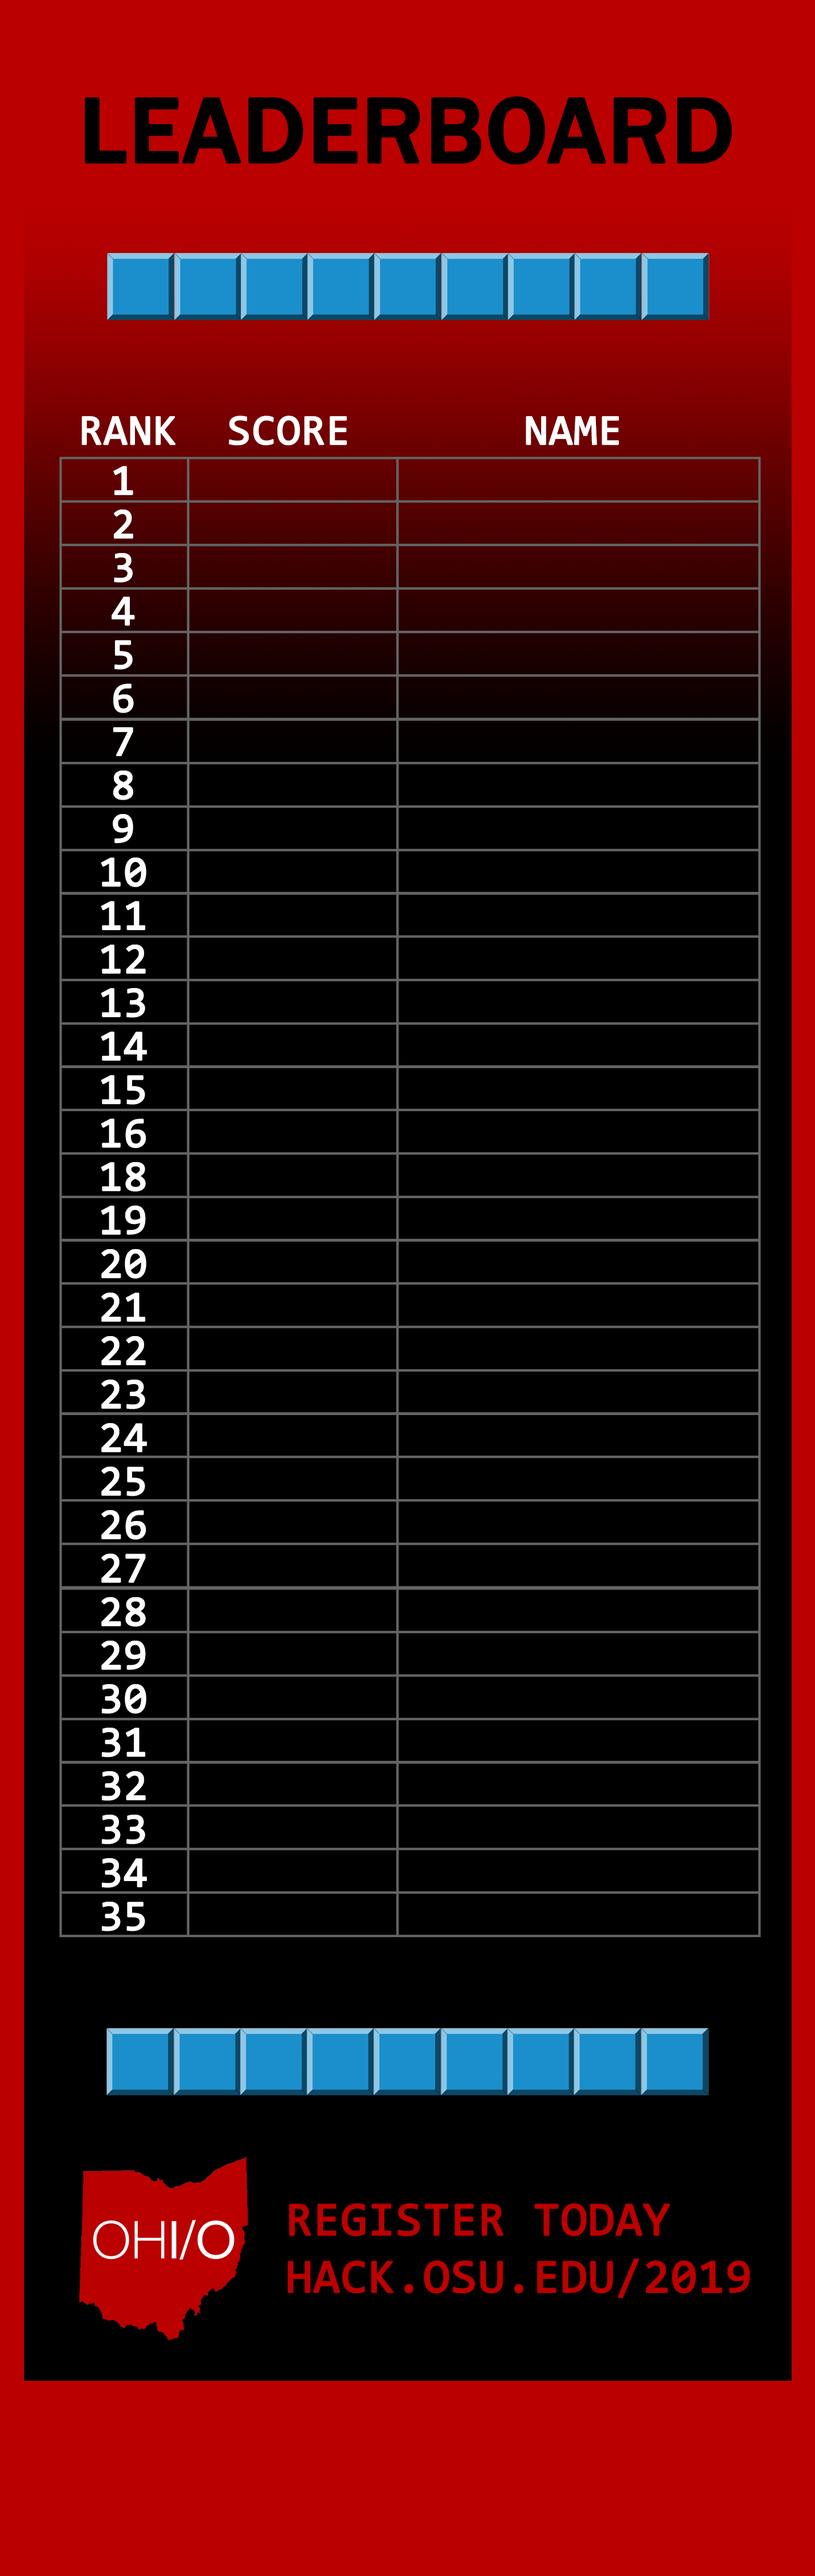
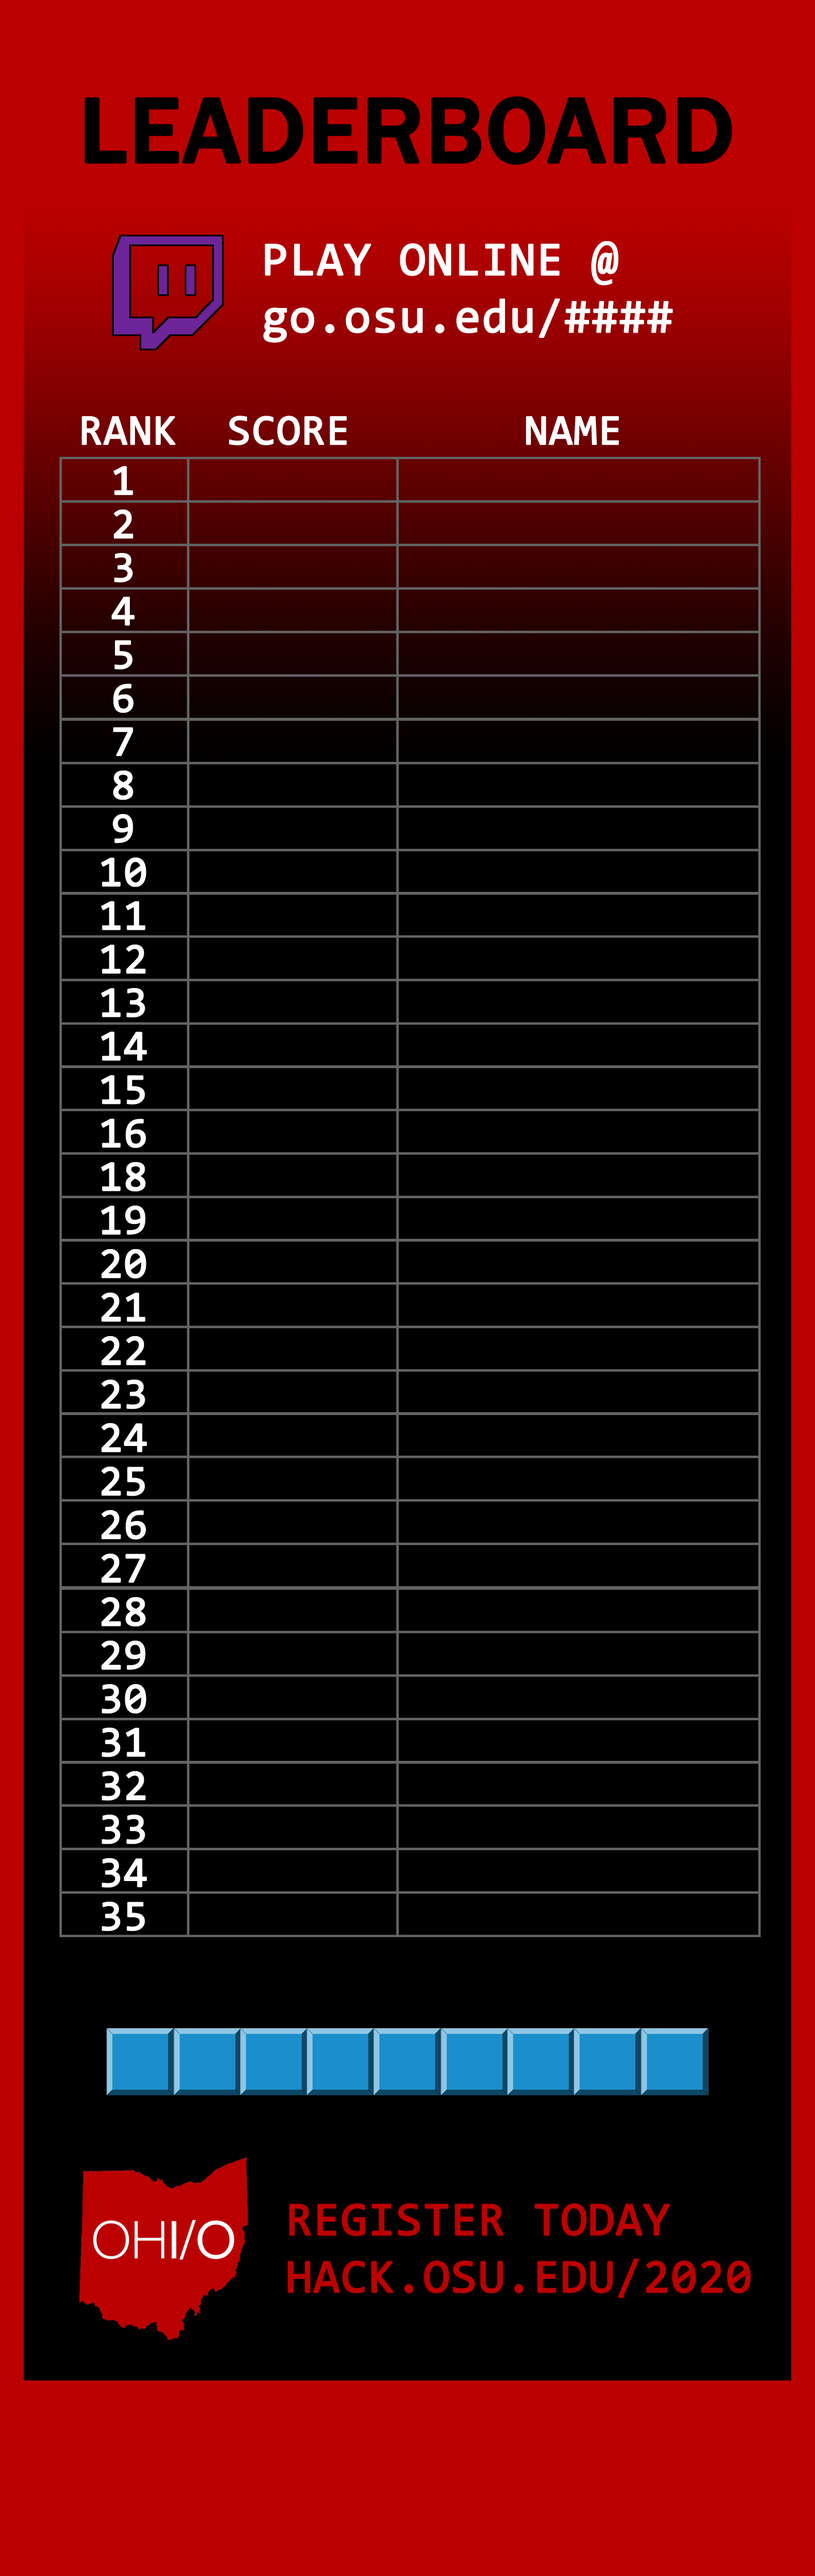
Initial Twitch Version Draft

Changed region(s): [[0.1235, 0.0933, 0.8954, 0.1556], [0.8646, 0.8711, 0.9263, 0.9022]]

diff --git a/src/main.py b/src/main.py
@@ -321,8 +321,8 @@ class GameView(arcade.View):
                 if grid[row][column]:
                     color = colors[grid[row][column]]
                     # Do the math to figure out where the box is
-                    x = (MARGIN + WIDTH) * (column + offset_x) + SCREEN_MARGIN + WIDTH // 2 + WINDOW_MARGIN                                 #MAY NEED FIXED WITH NEW SCREEN SIZE
-                    y = TETRIS_HEIGHT - HIDE_BOTTOM - (MARGIN + HEIGHT) * (row + offset_y) + SCREEN_MARGIN + HEIGHT // 2     #MAY NEED FIXED WITH NEW SCREEN SIZE
+                    x = (MARGIN + WIDTH) * (column + offset_x) + SCREEN_MARGIN + WIDTH // 2 + WINDOW_MARGIN                  #MAY NEED MODIFIED FOR NEW SCREEN SIZES
+                    y = TETRIS_HEIGHT - HIDE_BOTTOM - (MARGIN + HEIGHT) * (row + offset_y) + SCREEN_MARGIN + HEIGHT // 2     #MAY NEED MODIFIED FOR NEW SCREEN SIZES
 
                     # Draw the box
                     arcade.draw_rectangle_filled(x, y, WIDTH, HEIGHT, color)
@@ -370,7 +370,7 @@ class GameView(arcade.View):
 
 
     def switch_to_leaderboard(self):
-        time.sleep(3)
+        time.sleep(5)                                   # Time to pause on the leaderboard!
         next_view = LBView()
         next_view.setup(self.score, self.player_name)
         self.window.show_view(next_view)
@@ -447,6 +447,8 @@ class GameView(arcade.View):
         """
         Update the sprite list to reflect the contents of the 2d grid
         """
+
+
         for row in range(len(self.board)):
             for column in range(len(self.board[0])):
                 v = self.board[row][column]
@@ -529,6 +531,7 @@ class GameView(arcade.View):
 #===============================================================================
 class MenuView(arcade.View):
 
+
     def on_show(self):
         arcade.set_background_color([187,0,0])                                  # Set Background. Required. Do not delete def!
 
@@ -540,16 +543,19 @@ class MenuView(arcade.View):
         arcade.draw_texture_rectangle(  center_x = WINDOW_WIDTH // 2,  center_y = SCREEN_HEIGHT // 2,
                                         width    = SCREEN_WIDTH,    height   = SCREEN_HEIGHT,
                                         texture  = self.background )
+
+        # GRAPHICS: Twitch Plays Logo
+        graphic = arcade.load_texture(GRAPHICS[0])
+        arcade.draw_texture_rectangle(  center_x=WINDOW_WIDTH // 2, center_y=SCREEN_HEIGHT // 2 + (SCREEN_HEIGHT*0.05) + TOWER_BUFFER,
+                                                width= SCREEN_WIDTH*0.8, height= SCREEN_HEIGHT*0.18, texture=graphic)
+
         # BUTTON GRAPHICS :D
         # Buttons are not intended to be clickable
-        button = arcade.load_texture(BUTTONS[0])
-        arcade.draw_texture_rectangle(  center_x=WINDOW_WIDTH // 2, center_y=SCREEN_HEIGHT // 2 + TOWER_BUFFER,
-                                        width= SCREEN_WIDTH*0.58, height= SCREEN_HEIGHT*0.04, texture=button)
-        button = arcade.load_texture(BUTTONS[1])
+        button = arcade.load_texture(BUTTONS[4])
         arcade.draw_texture_rectangle(  center_x=WINDOW_WIDTH // 2, center_y=SCREEN_HEIGHT // 2 - (SCREEN_HEIGHT*0.05) + TOWER_BUFFER,
                                         width= SCREEN_WIDTH*0.58, height= SCREEN_HEIGHT*0.04, texture=button)
-        button = arcade.load_texture(BUTTONS[2])
-        arcade.draw_texture_rectangle(  center_x=WINDOW_WIDTH // 2, center_y=SCREEN_HEIGHT // 2 - (SCREEN_HEIGHT*0.1) + TOWER_BUFFER,
+        button = arcade.load_texture(BUTTONS[1])
+        arcade.draw_texture_rectangle(  center_x=WINDOW_WIDTH // 2, center_y=SCREEN_HEIGHT // 2 - (SCREEN_HEIGHT*0.10) + TOWER_BUFFER,
                                         width= SCREEN_WIDTH*0.58, height= SCREEN_HEIGHT*0.04, texture=button)
 
 
@@ -566,6 +572,8 @@ class MenuView(arcade.View):
         print("Clicking doesn't do anything")
 
     def on_key_press(self, key, modifiers):
+        global AUTO_MODE
+
         if key == 65470:
             print("---- RELOAD MAIN MENU")
             next_view = MenuView()
@@ -577,9 +585,15 @@ class MenuView(arcade.View):
             self.window.show_view(next_view)
         if key == 65472:
             print("---- NEW PLAYER")
+            AUTO_MODE = True                                                    #TwitchPlays Addition
+            print(AUTO_MODE)
             next_view = PNameView()
             next_view.setup()
             self.window.show_view(next_view)
+
+
+
+
 
         if key == 65307: arcade.close_window()
 
@@ -590,7 +604,11 @@ class LBView(arcade.View):
         # Set Background. Required. Do not delete def!
         arcade.set_background_color([187,0,0])
 
+
     def on_draw(self):
+        global AUTO_MODE
+        print(AUTO_MODE)
+
         arcade.start_render()
 
         # BACKGROUND
@@ -619,12 +637,18 @@ class LBView(arcade.View):
                               align= "center", bold = True)
             currentRowHeight -= SCREEN_HEIGHT * 0.01685
 
+            self.frames +=1
+            if (AUTO_MODE == True) and (self.frames > 600):
+                next_view = PNameView()
+                next_view.setup()
+                self.window.show_view(next_view)
 
 
     def setup(self, score = None, name = None):
         print("Setup Leaderboard")
         self.score = score
         self.name = name
+        self.frames = 0
 
     def on_mouse_press(self, x, y, button, modifiers):
         print("Clicking doesn't do anything")
@@ -644,6 +668,7 @@ class LBView(arcade.View):
             next_view = PNameView()
             next_view.setup()
             self.window.show_view(next_view)
+
 #===============================================================================
 class PNameView(arcade.View):
 
@@ -659,17 +684,27 @@ class PNameView(arcade.View):
         arcade.draw_texture_rectangle(  center_x = WINDOW_WIDTH // 2,  center_y = SCREEN_HEIGHT // 2,
                                         width    = SCREEN_WIDTH,    height   = SCREEN_HEIGHT,
                                         texture  = self.background )
-        if self.READY_TO_PLAY == True:
-            arcade.draw_text("READY TO PLAY", SCREEN_WIDTH/2 + WINDOW_MARGIN, SCREEN_HEIGHT*0.482, arcade.color.BLACK,  float(SCREEN_HEIGHT*0.02), bold=True, width=340, align="center", anchor_x="center", anchor_y="center")
 
-        self.write_name()
+        self.write_name()                                                       # Removed for Twitch Plays version of game
+        self.launch_game()
+
 
     def setup(self):
         self.player_name = ''
         self.READY_TO_PLAY = False
 
+        #Variables Reset Each time
+        self.frame_count = 0                #reset game frame counter
+        self.lastFrame_nameUpdate = 0
+
+    def update(self, dt):
+        #Frame Counter
+        self.frame_count += 1
+
+
     def on_mouse_press(self, x, y, button, modifiers):
         print("Clicking doesn't do anything")
+
 
     def on_key_press(self, key, modifiers):
 
@@ -692,24 +727,27 @@ class PNameView(arcade.View):
         if key==65293 or key==65421:   #USES ENTER KEYS OR F4
             self.READY_TO_PLAY = True
 
-        if self.READY_TO_PLAY == False:
-            # For name input
-            if 96 < key < 123:
-                self.player_name += str(['a', 'b', 'c', 'd', 'e', 'f', 'g',
-                    'h', 'i', 'j', 'k', 'l', 'm', 'n', 'o', 'p', 'q', 'r',
-                    's', 't', 'u', 'v', 'w', 'x', 'y', 'z'][key-97]).upper()
-            elif 47 < key < 58:
-                self.player_name += str(key-48)
-            elif 65455 < key <65466:
-                self.player_name += str(key-65456)
-            elif key == 65454:
-                self.player_name += '.'
-            elif key == arcade.key.PERIOD:
-                self.player_name += '.'
-            elif key == arcade.key.BACKSPACE:
-                self.player_name = self.player_name[:-1]
-            elif key == 45 or key == 65453:
-                self.player_name += '-'
+
+##### Removed for TwitchPlays Style Gameplay ###################################
+#        if self.READY_TO_PLAY == False:
+#            # For name input
+#            if 96 < key < 123:
+#                self.player_name += str(['a', 'b', 'c', 'd', 'e', 'f', 'g',
+#                    'h', 'i', 'j', 'k', 'l', 'm', 'n', 'o', 'p', 'q', 'r',
+#                    's', 't', 'u', 'v', 'w', 'x', 'y', 'z'][key-97]).upper()
+#            elif 47 < key < 58:
+#                self.player_name += str(key-48)
+#            elif 65455 < key <65466:
+#                self.player_name += str(key-65456)
+#            elif key == 65454:
+#                self.player_name += '.'
+#            elif key == arcade.key.PERIOD:
+#                self.player_name += '.'
+#            elif key == arcade.key.BACKSPACE:
+#                self.player_name = self.player_name[:-1]
+#            elif key == 45 or key == 65453:
+#                self.player_name += '-'
+##### Removed for TwitchPlays Style Gameplay ###################################
 
 
         elif self.READY_TO_PLAY == True:
@@ -724,12 +762,33 @@ class PNameView(arcade.View):
 
     def write_name(self):
         """ Draw and update the current players name as entered. """
-        player_name = f"{self.player_name}"
+
+        #Randomly Generate Player Name
+        if self.lastFrame_nameUpdate + 40 < self.frame_count:
+            self.player_name = AUTO_FILL_NAMES[random.randrange(len(AUTO_FILL_NAMES)-1)]
+            self.player_name += " #"
+            self.player_name += str(random.randrange(999))
+            self.lastFrame_nameUpdate = self.frame_count
+
+        #Draw Player Name
+        player_name = self.player_name
         arcade.draw_text(player_name, WINDOW_WIDTH//2-127, SCREEN_HEIGHT*0.54, arcade.color.BLACK, 20, width=int(SCREEN_WIDTH*0.731), align="center")
 
-        # ADAM REVIEW
-        #arcade.draw_text("- CURRENT CHALLENGER -", SCREEN_WIDTH/2, SCREEN_HEIGHT*0.94, arcade.color.CADET_GREY,  float(SCREEN_HEIGHT*0.021), align="center", anchor_x="center", anchor_y="center")
-        #arcade.draw_text(player_name, SCREEN_WIDTH/2, SCREEN_HEIGHT*0.90, arcade.color.CADET_GREY,  float(SCREEN_HEIGHT*0.02), bold=True, width=340, align="center", anchor_x="center", anchor_y="center")
+    def launch_game(self):
+        launch_frame = 500
+
+        if (self.READY_TO_PLAY) and (len(self.player_name) > 0) == True:
+            time.sleep(3)
+            next_view = GameView()
+            next_view.newGame(self.player_name)
+            self.window.show_view(next_view)
+
+        elif (self.frame_count > launch_frame):
+            self.READY_TO_PLAY = True
+            arcade.draw_text("LOADING GAME..", SCREEN_WIDTH/2 + WINDOW_MARGIN, SCREEN_HEIGHT*0.482, arcade.color.BLACK,  float(SCREEN_HEIGHT*0.02), bold=True, width=340, align="center", anchor_x="center", anchor_y="center")
+
+
+
 
 
 #===============================================================================
@@ -739,6 +798,10 @@ def main():
     """ Create the game window, setup, run
         #TO-DO load leaderboard file and send to game (?)
     """
+
+    #Twitch-Plays version
+    global AUTO_MODE
+    AUTO_MODE = True
 
     # Initialize
     global ALL_SCORES

diff --git a/src/game_variables.py b/src/game_variables.py
@@ -6,15 +6,21 @@ import os
 import arcade
 
 # Image of the base background
-BACKGROUNDS = ["assets" + os.sep + "bg_greyleaf.png","assets" + os.sep + "bg_mainmenu.png", "assets" + os.sep + "bg_leaderboard.png", "assets" + os.sep + "bg_askname.png"]
-LOGO_TITLE = "assets" + os.sep +  "title_buckeyetetris.png"
-#LOGO_HACKOHIO =
+BACKGROUNDS = [ "assets" + os.sep + "bg_greyleaf.png",
+                "assets" + os.sep + "bg_mainmenu_2020.png",                     # Update for new year w/ new annual PNG file
+                "assets" + os.sep + "bg_leaderboard.png",
+                "assets" + os.sep + "bg_askname.png"]
 
 # Button Textures
-BUTTONS = [ "assets" + os.sep + "button_play.png",
-            "assets" + os.sep + "button_leaderboard.png",
-            "assets" + os.sep + "button_exit.png",
-            "assets" + os.sep + "button_menu.png" ]
+BUTTONS = [ "assets" + os.sep + "button_play.png",                              # 0
+            "assets" + os.sep + "button_leaderboard.png",                       # 1
+            "assets" + os.sep + "button_exit.png",                              # 2
+            "assets" + os.sep + "button_menu.png",                              # 3
+            "assets" + os.sep + "button_launchGame.png" ]
+
+# Graphics
+GRAPHICS = [ "assets" + os.sep + "twitchLogo.png" ]
+
 
 # Game over text
 GAME_OVER = "assets" + os.sep +  "game_over.png"
@@ -23,12 +29,20 @@ GAME_OVER = "assets" + os.sep +  "game_over.png"
 #pm = 0.0178571429
 
 
-############-- MISC GLOBAL VARIABLES --##################
+############-- TWITCH-PLAYS SPECIFIC VARIABLES --###############################
+
+AUTO_FILL_NAMES = [ "Brutus", "Buckeye", "Carmen", "Ohio", "TBDBITL",
+                    "JavaScript", "Java", "C#", "C++", "R", "Swift", "Python", "PHP",
+                    "Manjaro", "Linux Mint", "Ubuntu", "Debian", "Solus", "Fedora", "Deepin" ]
+
+
+
+############-- MISC GLOBAL VARIABLES --#########################################
 
 # GAME SPEED
 # Use this to control how fast the game starts at and increments faster from
 # value = update every (n) frames
-INITIAL_GAME_SPEED = 10
+INITIAL_GAME_SPEED = 15
 
 #- TETRIS BOARD SIZE
 ROW_COUNT = 22
